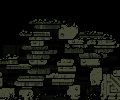
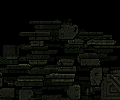
Art: cave-in rubble pass 3 - original block shading kept, top face + slope edge lit by 1-2 ramp steps, no grit fringe; dust frames 3-5 merged into 2-3 soft drifting shapes, frame 6 faint; fx atlas repacked

diff --git a/scripts/build_cave_in.py b/scripts/build_cave_in.py
@@ -20,6 +20,9 @@ def build(dist,seed,fk=1.0,save=True):
     H,W=src.shape[:2]; s=W/160; r=random.Random(seed)
     P=np.unique(src.reshape(-1,3),axis=0); Pl=P.sum(1)
     order=np.argsort(Pl); dark=P[order[0]]; dark2=P[order[min(3,len(P)-1)]]
+    RAMP=P[order]; RIDX={tuple(c):i for i,c in enumerate(RAMP)}
+    STEP=max(1,len(RAMP)//8)   # one ramp step = 1/8 of the wall's luminance ramp
+    def bump(c,n): return RAMP[min(len(RAMP)-1,RIDX[tuple(c)]+n*STEP)]
     def quant(img):  # snap to nearest wall colour
         f=img.reshape(-1,1,3); i=((f-P[None])**2).sum(2).argmin(1); return P[i].reshape(img.shape)
     def shade(img,k): return quant(np.clip(img*k,0,255))
@@ -71,7 +74,7 @@ def build(dist,seed,fk=1.0,save=True):
         x=-r.randint(0,8); rowh=0
         while x<W:
             b,m=chunk(r.choice(plainall),.5); h,w=m.shape
-            if y+h>top(x+w/2)-3*s: place(b,m,x,y+r.randint(-1,1),r.uniform(.3,.4))
+            if y+h>top(x+w/2)-3*s: place(b,m,x,y+r.randint(-1,1),r.uniform(.65,.75))
             x+=w-r.randint(0,2); rowh=max(rowh,h)
         y+=max(3,int(rowh*.7))
     # 2) front pile, stacked with a skyline: each chunk drops until it rests on what is below it.
@@ -82,7 +85,17 @@ def build(dist,seed,fk=1.0,save=True):
         low={c:np.nonzero(m[:,c])[0].max() for c in cols}; hi_={c:np.nonzero(m[:,c])[0].min() for c in cols}
         y=min(surf[x+c]-low[c]-1 for c in cols)+int(s)   # sink 1px: chunks bite into each other
         if y+min(hi_.values())<min(top(x+c) for c in cols)-2*s: return False   # above pile outline
-        place(b,m,x,y,k)
+        place(b,m,x,y,1.0)   # original shading kept inside the block
+        # light catches the top face and the edge facing down the slope: +1/+2 ramp steps
+        t=max(2,int(round(s*3))); right=(x+w/2)>W/2
+        ys,xs=np.nonzero(m)
+        for yy,xx in zip(ys,xs):
+            X,Y=x+xx,y+yy
+            if not(0<=X<W and 0<=Y<H): continue
+            top_d=yy-hi_.get(xx,yy) if xx in hi_ else 99
+            row=np.nonzero(m[yy])[0]; edge_d=(row.max()-xx) if right else (xx-row.min())
+            if top_d<t: out[Y,X]=bump(out[Y,X],2 if top_d<t-1 else 1)
+            elif edge_d<t: out[Y,X]=bump(out[Y,X],1)
         for c in cols: surf[x+c]=min(surf[x+c],y+hi_[c])
         return True
     pieces=[]
@@ -97,11 +110,11 @@ def build(dist,seed,fk=1.0,save=True):
             x=int(r.uniform(-.15,1.0)*W-w*.3)
             if drop(b,m,x,fk*[1.0,.95,.98][tier]*r.uniform(.93,1.05)): break
     # 3) grit: 1-3px crumbs of wall pixels lying on the pile surface and spilled on the floor
-    for _ in range(int(160*s)):
+    for _ in range(int(50*s)):
         x=r.randrange(W); g=max(1,int(r.uniform(1,2.6)*s+.4))
-        y=int(min(H-1,surf[x]+r.uniform(-1,1)*s)) if r.random()<.6 else int(H-r.uniform(1,8)*s)
+        y=int(H-r.uniform(1,6)*s)
         sx=r.randrange(W-g); sy=r.randrange(H-g); gg=src[sy:sy+g,sx:sx+g]
-        place(gg,np.ones((g,g),bool),x,y-g+1,fk,outline=True)
+        place(gg,np.ones((g,g),bool),x,y-g+1,.7,outline=False)
     # 6) a few irregular dark cracks between blocks (no light through)
     for _ in range(int(5+3*s)):
         x=r.uniform(.1,.9)*W; y=r.uniform(.15,.85)*H; L=int(r.uniform(5,14)*s)
@@ -119,16 +132,9 @@ def build(dist,seed,fk=1.0,save=True):
     a=np.dstack([out,np.full((H,W),255)]).astype(np.uint8)
     Image.fromarray(a,'RGBA').save(D+f'rubble_front_{dist}.png'); return m1
 KN={'near':2,'mid':1,'far':0}
-TARGET={'near':24,'mid':18,'far':13}
 for dist,seed in (('near',11),('mid',12),('far',13)):
-    # pick the front-block brightness so the piece hits its target mean; colours are
-    # snapped to existing (brighter) wall colours, the back layer stays dim
-    lo,hi=1.0,4.0
-    for _ in range(12):
-        fk=(lo+hi)/2
-        if build(dist,seed,fk,False)<TARGET[dist]: lo=fk
-        else: hi=fk
-    m=build(dist,seed,(lo+hi)/2); print(f'{dist}: mean {m:.1f} (target {TARGET[dist]}), front gain {(lo+hi)/2:.2f}')
+    m=build(dist,seed); w=np.array(Image.open(D+f'wall_front_{dist}.png').convert('RGB')).mean()
+    print(f'{dist}: rubble mean {m:.1f}, wall mean {w:.1f}')
 # dust burst, 160x140: stringy smeared wisps drifting down/out, dust.png colours + 17-step alpha
 DUST=[(145,141,125),(188,184,168)]
 os.makedirs('public/proto3d/fx',exist_ok=True)
@@ -159,6 +165,20 @@ def frame(f):
                         a=fade*life*max(0,1-abs(j)*.12)*(0.5 if w['hi'] else 0.36)
                         acc[yi,xi]=min(1,acc[yi,xi]+a*.5)
                         if w['hi'] and abs(j)<1 and fade>.5: hi[yi,xi]=True
+    if f==5: acc*=.45   # last frame: faint leftover wisps, no bright streak pop after the soft cloud
+    if f in (2,3,4):   # merge into 2-3 large soft drifting shapes
+        rs=np.random.default_rng(7)
+        cl=np.zeros((140,160)); yy,xx=np.mgrid[0:140,0:160]
+        for (cx,cy,rx,ry,wt) in ((40,92,46,20,1.0),(118,88,44,22,.9),(80,112,52,16,.7))[:3 if f<4 else 2]:
+            cx+=(-1 if cx<80 else 1)*(f-2)*8; cy+=(f-2)*6; rx*=1+.15*(f-2)
+            # warped, ragged edge: radius modulated by low-freq noise per angle and row
+            ang=np.arctan2((yy-cy)/ry,(xx-cx)/rx); rad=np.hypot((xx-cx)/rx,(yy-cy)/ry)
+            warp=1+.25*np.sin(3*ang+cx)+.18*np.sin(5*ang+cy)+.12*np.sin(yy*.35+cx)
+            cl=np.maximum(cl,wt*np.clip(1-rad/warp,0,1)**.8)
+        n=rs.random((140,160)); n=(n+np.roll(n,1,1)+np.roll(n,-1,1)+np.roll(n,2,1))/4   # horizontal smear grain
+        k=[0,0,.42,.38,.24][f]
+        acc=np.maximum(acc*.35,cl*k*(.75+.5*n)); hi[:]=False
+        hi|=(cl>.75)&(n>.55)
     a=(np.clip(acc,0,221/255)*255/17).astype(int)*17
     im=np.zeros((140,160,4),np.uint8)
     for c,msk in ((DUST[0],~hi),(DUST[1],hi)):
